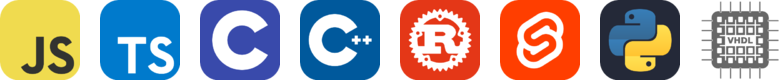
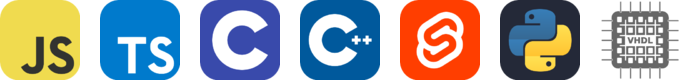
build: 🚀 rebuild README.md (auto)

diff --git a/README.md b/README.md
@@ -32,7 +32,7 @@ Kernel: 0.w.0-dev.infj54.foxarch
 IDE: VS Code 1.86.0-insider
 Env: Fedora 39, GNOME 45.5, nushell 0.92, starship
 
-Stack.Core:    ● C       ● JavaScript ● C++   ● Rust   
+Stack.Core:    ● C       ● JavaScript ● C++   
 Stack.Scripts: ● Python  ● Bash       
 Stack.Low:     ● x86     ● VHDL       
 Stack.Web:     ● HTML    ● Svelte     ● PHP   ● React  
